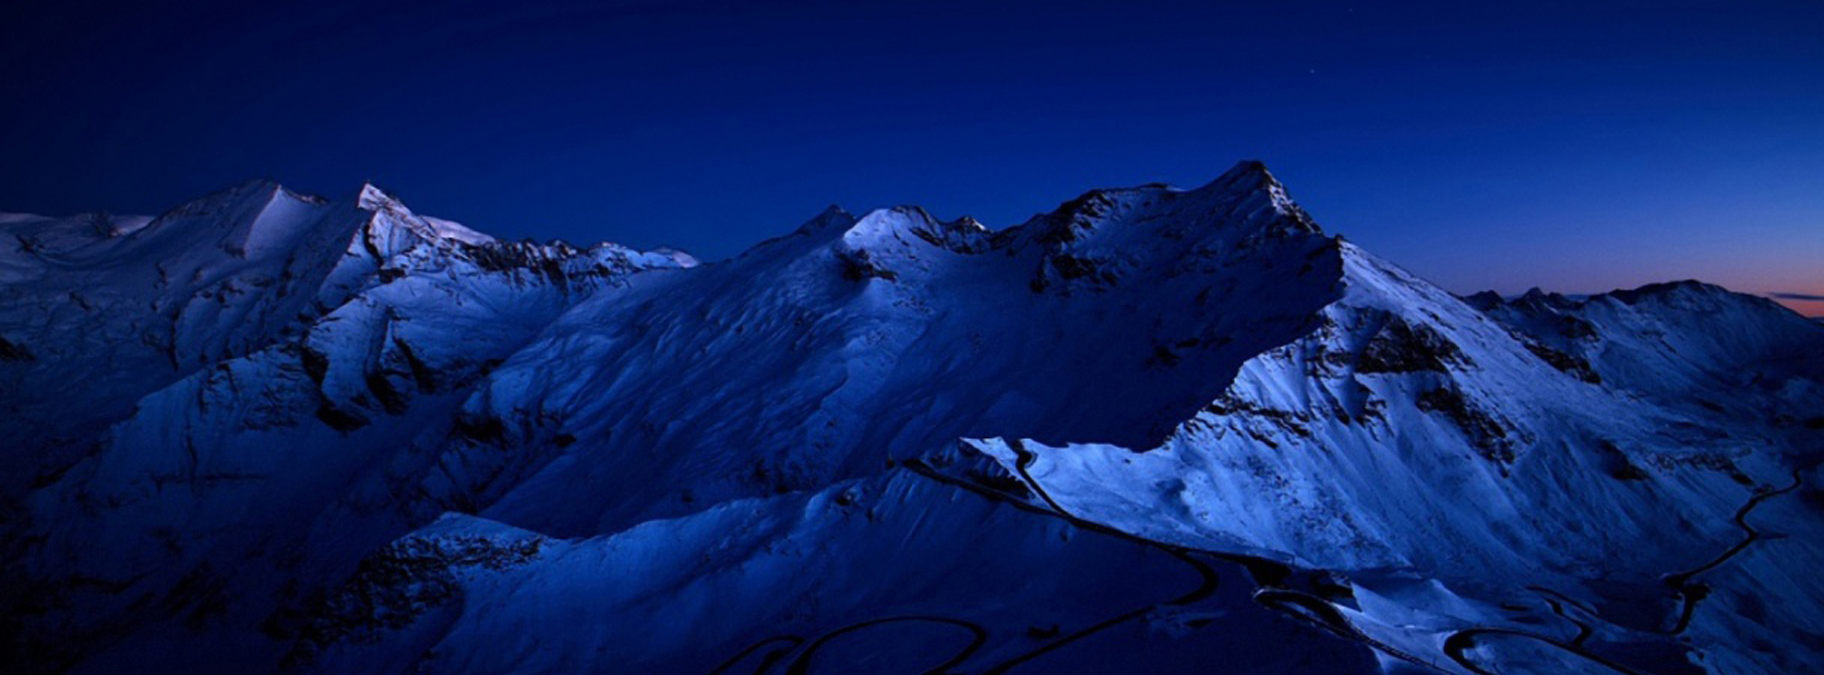
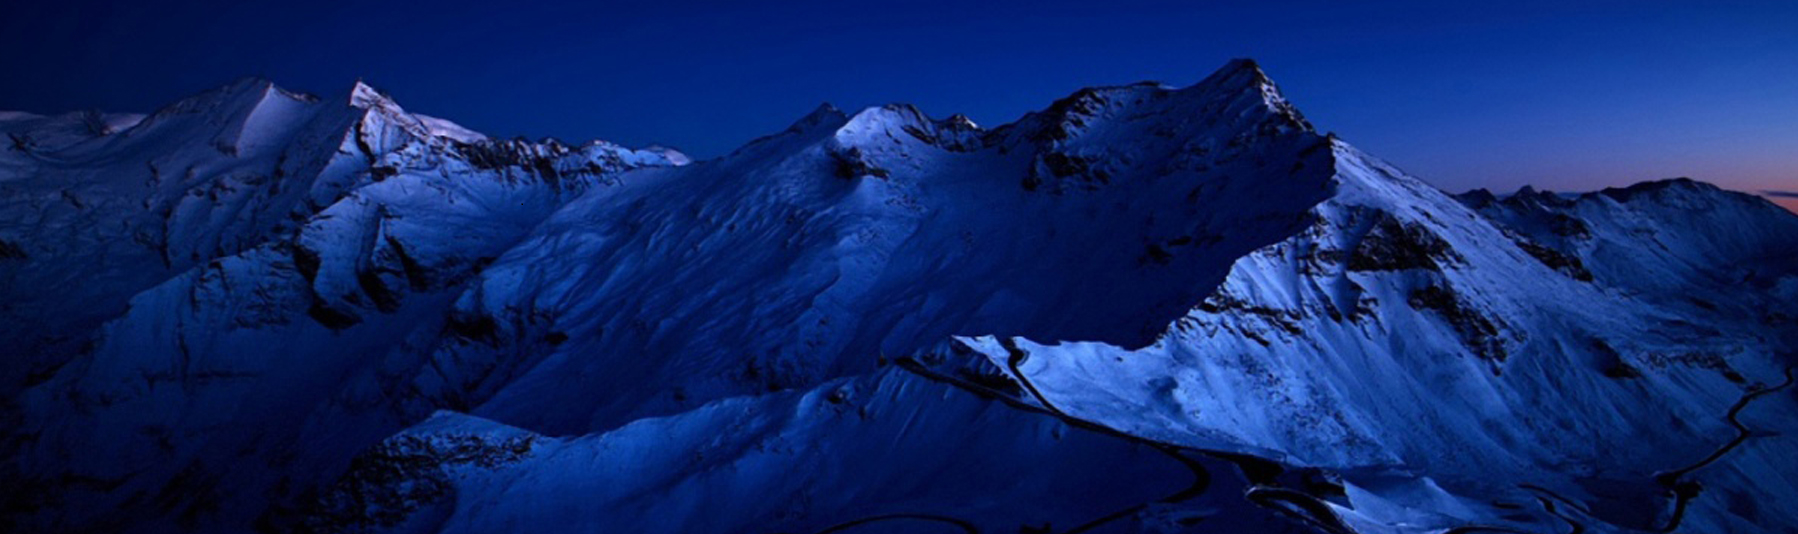
background image

diff --git a/client/src/index.css b/client/src/index.css
@@ -9,9 +9,18 @@
 }
 
 body {
-    background-color:  #0b2c4e;
+    background-color: #061a2e;
     height: 100vh;
     width: 100vw;
+
+}
+
+.background-image {
+    background-size: contain;
+    background: no-repeat;
+    width: 100%;
+    height: 15rem;
+    background-image: url("index.png");
 }
 
 /* .todos {

diff --git a/client/src/App.jsx b/client/src/App.jsx
@@ -45,7 +45,7 @@ function App() {
   };
 
   return (
-   <section className="main-container">
+   <section className="background-image">
 
    </section>
   );
